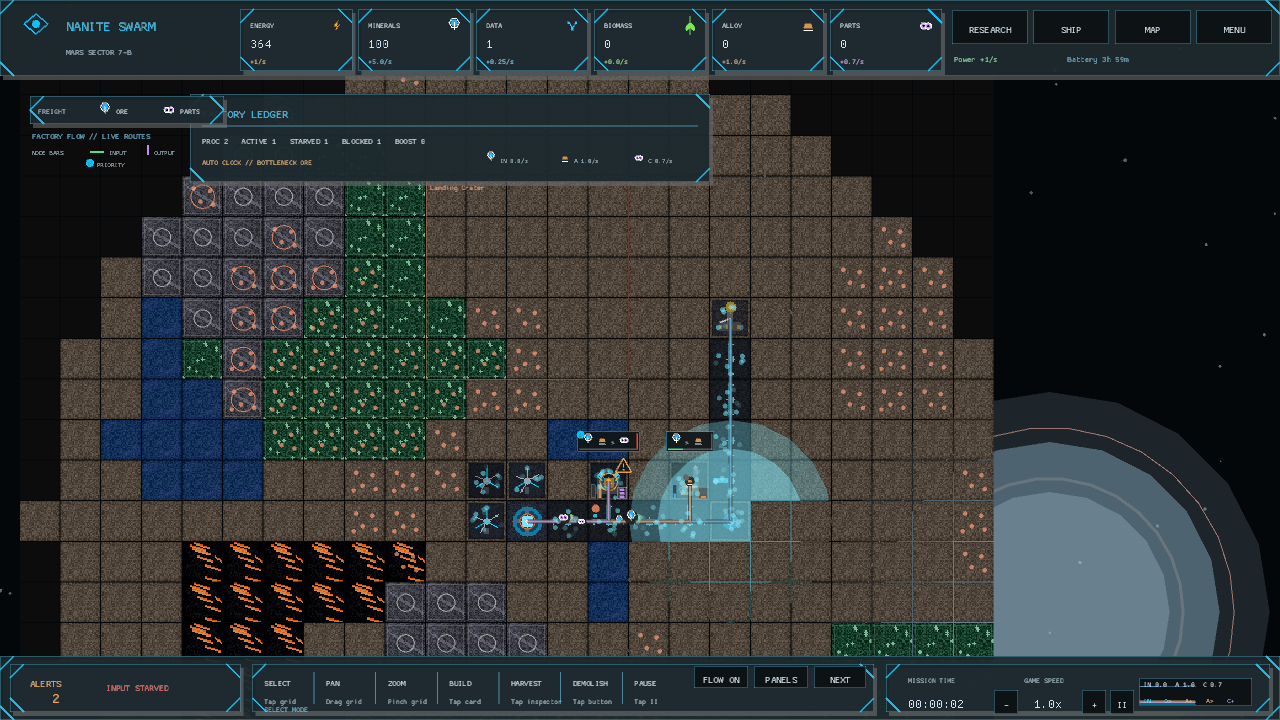
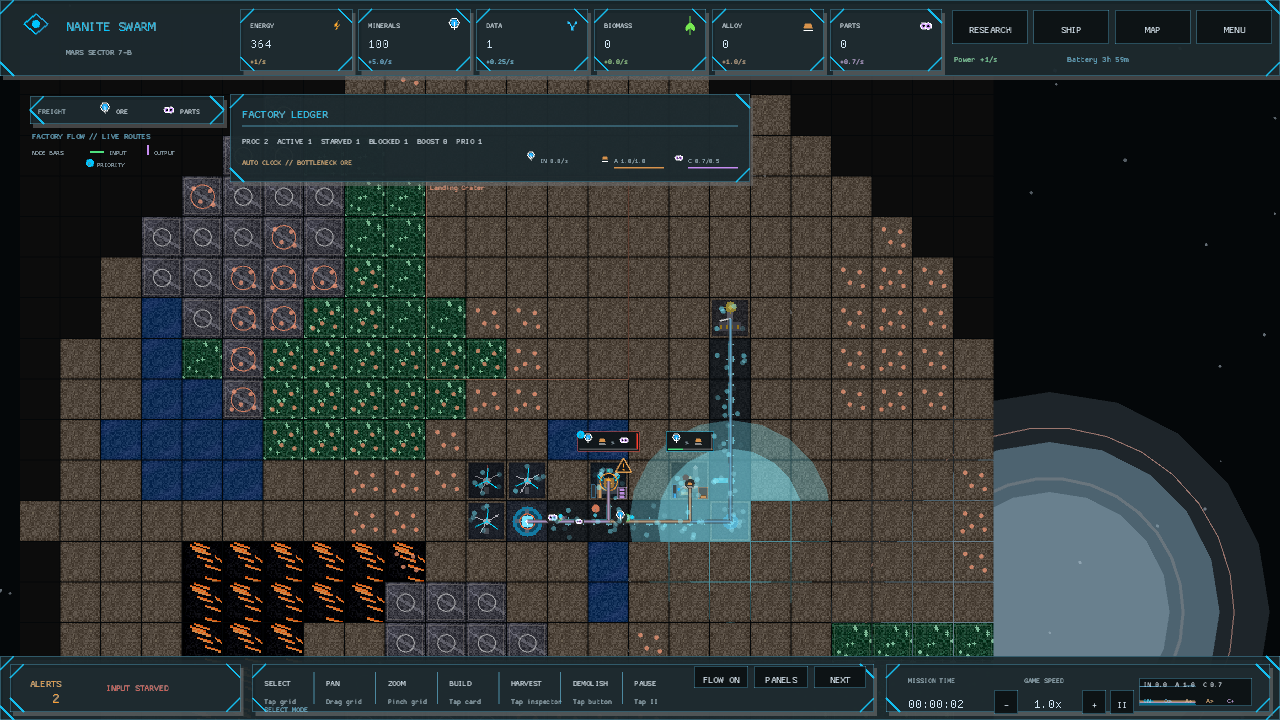
The ledger measures how much of the foundry is truly awake (installed capacity and utilization telemetry)
Observed output rates alone could not reveal whether a large factory was barely loaded or operating near its installed limit. Calculate rated alloy and parts capacity from each processor's recipe, boost mode, and dust efficiency; compare live rates against it with compact utilization bars. Count priority lines in the summary and move the wide ledger clear of the expanded freight selector.

diff --git a/src/screens/planetary_view/flow_render.rs b/src/screens/planetary_view/flow_render.rs
@@ -37,13 +37,16 @@ struct FactoryLedger {
     starved: usize,
     blocked: usize,
     boosted: usize,
+    priority: usize,
     congested: usize,
     peak_network_load: u32,
     network_capacity: f32,
     bottleneck: Option<ResourceType>,
     ore_rate: f32,
     alloy_rate: f32,
+    alloy_capacity: f32,
     components_rate: f32,
+    components_capacity: f32,
     auto_clocking: bool,
 }
 
@@ -132,7 +135,7 @@ fn draw_node_key(metrics: HudMetrics, theme: &UiTheme) {
 
 fn draw_factory_ledger(ledger: &FactoryLedger, metrics: HudMetrics, theme: &UiTheme) {
     let grid_room = screen_width() - metrics.base_offset_x() - metrics.right_panel_width - 14.0;
-    let x = metrics.base_offset_x() + if grid_room >= 500.0 { 170.0 } else { 8.0 };
+    let x = metrics.base_offset_x() + if grid_room >= 500.0 { 210.0 } else { 8.0 };
     let width = (screen_width() - x - metrics.right_panel_width - 14.0)
         .max(250.0)
         .min(520.0);
@@ -150,8 +153,13 @@ fn draw_factory_ledger(ledger: &FactoryLedger, metrics: HudMetrics, theme: &UiTh
     let warning = color_from_rgba(&theme.colors.warning);
     let success = color_from_rgba(&theme.colors.success);
     let summary = format!(
-        "PROC {}   ACTIVE {}   STARVED {}   BLOCKED {}   BOOST {}",
-        ledger.processors, ledger.active, ledger.starved, ledger.blocked, ledger.boosted
+        "PROC {}  ACTIVE {}  STARVED {}  BLOCKED {}  BOOST {}  PRIO {}",
+        ledger.processors,
+        ledger.active,
+        ledger.starved,
+        ledger.blocked,
+        ledger.boosted,
+        ledger.priority
     );
     draw_ui_text(&summary, area.x + 12.0, area.y + 50.0, 10.0, text);
 
@@ -195,9 +203,19 @@ fn draw_factory_ledger(ledger: &FactoryLedger, metrics: HudMetrics, theme: &UiTh
     );
 
     let rates = [
-        (ResourceType::Minerals, "IN", ledger.ore_rate),
-        (ResourceType::Alloy, "A", ledger.alloy_rate),
-        (ResourceType::Components, "C", ledger.components_rate),
+        (ResourceType::Minerals, "IN", ledger.ore_rate, None),
+        (
+            ResourceType::Alloy,
+            "A",
+            ledger.alloy_rate,
+            Some(ledger.alloy_capacity),
+        ),
+        (
+            ResourceType::Components,
+            "C",
+            ledger.components_rate,
+            Some(ledger.components_capacity),
+        ),
     ];
     let start_x = if compact {
         area.x + 12.0
@@ -209,7 +227,7 @@ fn draw_factory_ledger(ledger: &FactoryLedger, metrics: HudMetrics, theme: &UiTh
     } else {
         area.y + 59.0
     };
-    for (index, (resource, label, rate)) in rates.into_iter().enumerate() {
+    for (index, (resource, label, rate, capacity)) in rates.into_iter().enumerate() {
         let chip_x = start_x + index as f32 * 74.0;
         draw_resource_icon(
             resource,
@@ -217,12 +235,36 @@ fn draw_factory_ledger(ledger: &FactoryLedger, metrics: HudMetrics, theme: &UiTh
             resource_color(theme, resource),
         );
         draw_ui_text(
-            &format!("{} {:.1}/s", label, rate),
+            &capacity.map_or_else(
+                || format!("{} {:.1}/s", label, rate),
+                |rated| format!("{} {:.1}/{:.1}", label, rate, rated),
+            ),
             chip_x + 14.0,
             rate_y + 10.0,
             8.0,
             dim,
         );
+        if let Some(rated) = capacity {
+            let utilization = if rated <= 0.001 {
+                0.0
+            } else {
+                (rate / rated).clamp(0.0, 1.0)
+            };
+            draw_rectangle(
+                chip_x + 14.0,
+                rate_y + 14.0,
+                50.0,
+                1.5,
+                with_alpha(Colors::TEXT_DIM, 0.22),
+            );
+            draw_rectangle(
+                chip_x + 14.0,
+                rate_y + 14.0,
+                50.0 * utilization,
+                1.5,
+                resource_color(theme, resource),
+            );
+        }
     }
 }
 
@@ -246,21 +288,42 @@ fn factory_ledger(state: &PlanetState) -> FactoryLedger {
                 .is_some_and(|building| building.overclocked)
         })
         .count();
+    let priority = nodes.iter().filter(|node| node.priority).count();
     FactoryLedger {
         processors: nodes.len(),
         active,
         starved: starved.len(),
         blocked: blocked.len(),
         boosted,
+        priority,
         congested: state.congested_tiles(),
         peak_network_load: state.traffic.values().copied().max().unwrap_or(0),
         network_capacity: state.config.buildings.conduit_capacity.max(1.0),
         bottleneck: factory_bottleneck(state, &starved),
         ore_rate: state.throughput.last().unwrap_or(0.0),
         alloy_rate: state.observed_alloy_rate(),
+        alloy_capacity: processor_output_capacity(state, ResourceType::Alloy),
         components_rate: state.observed_components_rate(),
+        components_capacity: processor_output_capacity(state, ResourceType::Components),
         auto_clocking: state.auto_clocking,
     }
+}
+
+fn processor_output_capacity(state: &PlanetState, resource: ResourceType) -> f32 {
+    state
+        .grid
+        .iter_tiles()
+        .filter_map(|(_, tile)| tile.building.as_ref())
+        .filter_map(|building| {
+            let rate = crate::data::game_data()
+                .building(building.building_type.id())
+                .recipe
+                .outputs
+                .get(resource.id())
+                .copied()?;
+            Some(rate * building.work_multiplier() * building.dust_efficiency())
+        })
+        .sum()
 }
 
 fn factory_bottleneck(

diff --git a/src/screens/planetary_view/flow_render/tests.rs b/src/screens/planetary_view/flow_render/tests.rs
@@ -113,6 +113,7 @@ fn factory_ledger_names_the_missing_input_and_boosted_processor() {
     let building = state.grid.get_mut(pos).unwrap().building.as_mut().unwrap();
     building.powered = true;
     building.overclocked = true;
+    building.input_priority = true;
     state.input_hoppers.insert(
         (pos.x, pos.y),
         [(ResourceType::Alloy, 8.0)].into_iter().collect(),
@@ -123,7 +124,24 @@ fn factory_ledger_names_the_missing_input_and_boosted_processor() {
     assert_eq!(ledger.active, 0);
     assert_eq!(ledger.starved, 1);
     assert_eq!(ledger.boosted, 1);
+    assert_eq!(ledger.priority, 1);
     assert_eq!(ledger.bottleneck, Some(ResourceType::Minerals));
+    assert!(ledger.components_capacity > 0.0);
+}
+
+#[test]
+fn rated_output_capacity_follows_boost_and_dust_efficiency() {
+    let mut state = PlanetState::new(2, 42, GameConfig::default());
+    let pos = state.grid.find_core().unwrap();
+    let mut building = crate::engine::Building::new(BuildingType::Smelter, pos);
+    state.grid.get_mut(pos).unwrap().building = Some(building.clone());
+    let normal = processor_output_capacity(&state, ResourceType::Alloy);
+
+    building.overclocked = true;
+    building.dust = 30.0;
+    state.grid.get_mut(pos).unwrap().building = Some(building);
+    let boosted_and_dusty = processor_output_capacity(&state, ResourceType::Alloy);
+    assert!((boosted_and_dusty - normal * 1.5 * 0.9).abs() < 0.001);
 }
 
 #[test]

diff --git a/README.md b/README.md
@@ -43,6 +43,7 @@ FLOW recipe nodes use separate gauges: the bottom bar is input readiness, while 
 FLOW routes now thicken as live traffic approaches conduit capacity, pulse amber when saturated, and slow their packet animation to mirror the drones caught in that lane.
 Selected processors expose a STANDARD / PRIORITY touch control beside their live recipe flow; priority lines claim scarce routed inputs before standard lines while still balancing demand among equal peers.
 Box-select a production district to prioritize or standardize every processor together; priority nodes carry a cyan P badge in FLOW so the policy stays visible at map scale.
+The FLOW ledger compares observed alloy and parts output with installed processor capacity and draws utilization bars, making underused factory depth visible alongside starvation and backpressure.
 
 Keyboard shortcuts are optional:
 
